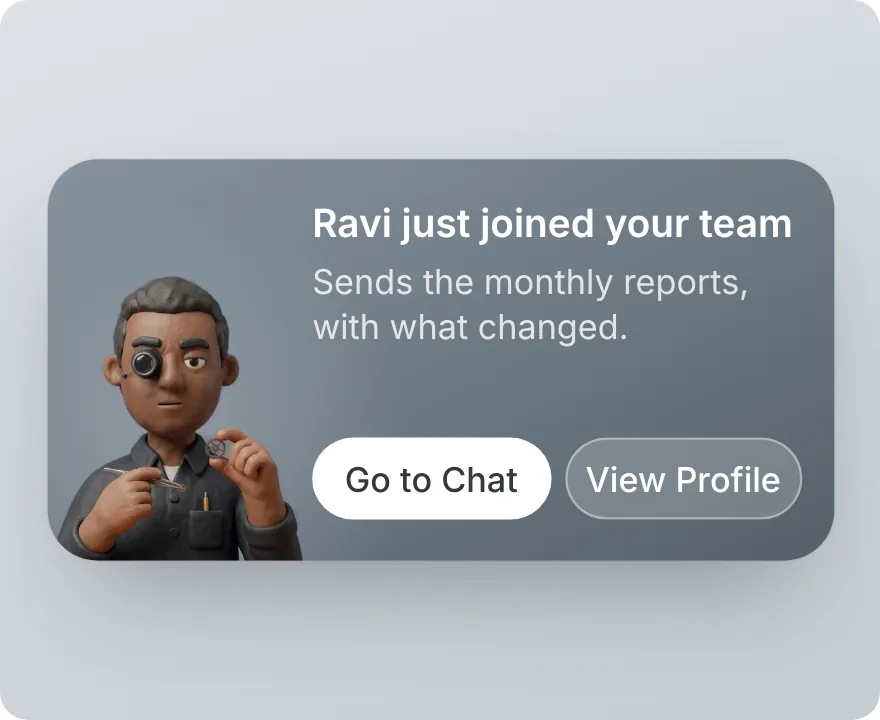
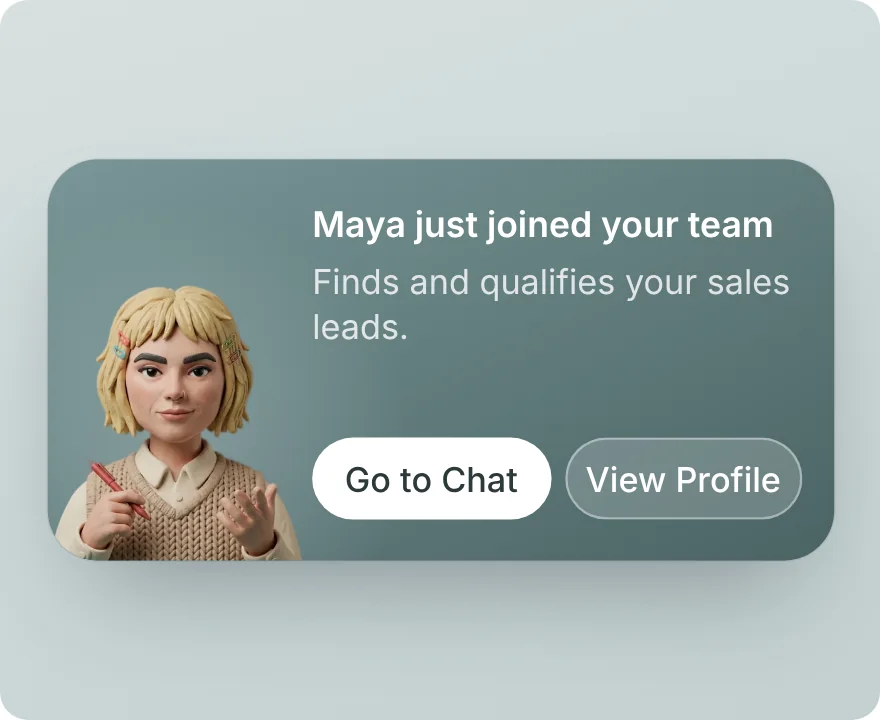
Website bar: Maya (clay-23) on the Teammates card
Claude-Session: https://claude.ai/code/session_01YVdXyUP5gsDTr44eH5Vte9

Changed region(s): [[0.0614, 0.3667, 0.3375, 0.7944], [0.3375, 0.3667, 0.8898, 0.4889], [0.3375, 0.275, 0.9205, 0.3361]]

diff --git a/sites/simeonlabs.com/source/nav.py b/sites/simeonlabs.com/source/nav.py
@@ -39,7 +39,7 @@ ARROW = '<svg class="arrow" viewBox="0 0 10 6" aria-hidden="true"><path d="M1 1l
 # design on the right. Same for ressources"): each item's name over a line of what it is, and on the right the
 # picture of the item the pointer is on, the first item's until then (img/menu/<picture>.webp, made 14 November
 # 2026: Product's, a screenshot of the app on an agent's colour beside two of the cards' photos, but Teammates' the
-# app's "just joined your team" card (Ravi, clay-13, in his face's colour) on a softer ground of that colour; the Newsroom's the
+# app's "just joined your team" card (Maya, clay-23, in her face's colour) on a softer ground of that colour; the Newsroom's the
 # SimeonLabs pond painting, the App Store's header; Docs' the docs' own overview page; AI Models' twelve model
 # makers' logos on Rosa's colour).
 # Each: key (a page passes it as `current`), address, name, the line under it, picture.
